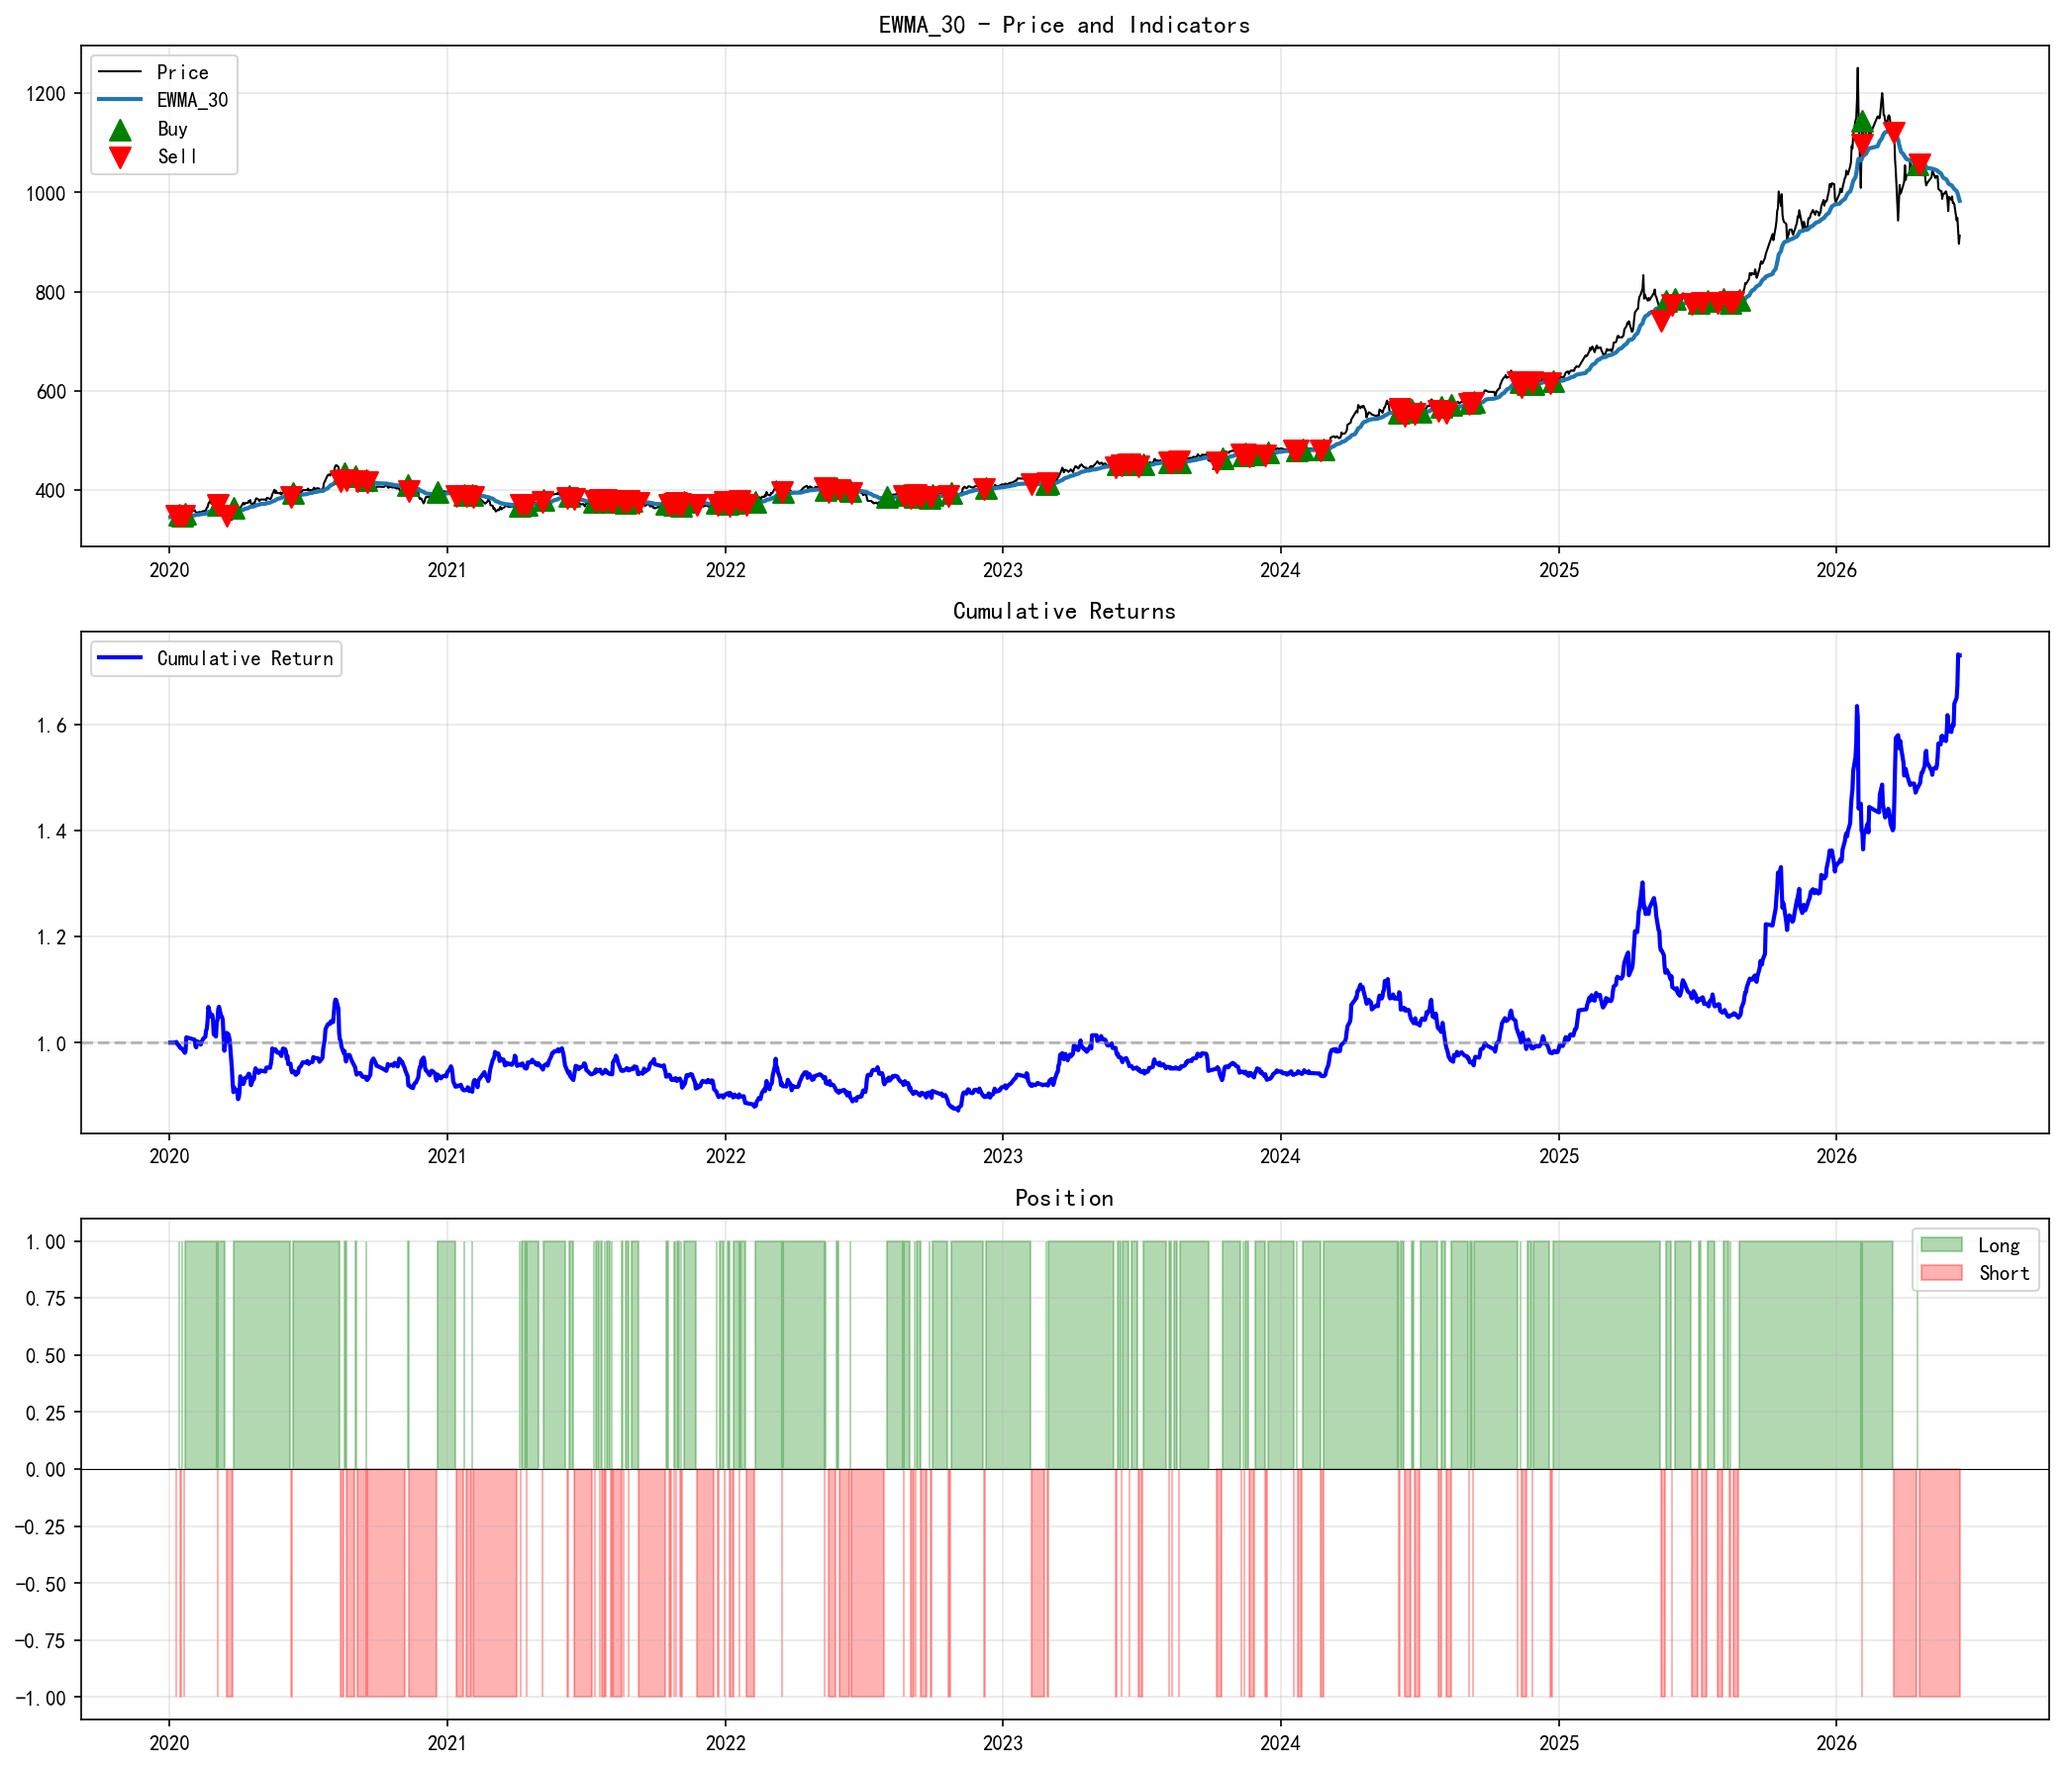
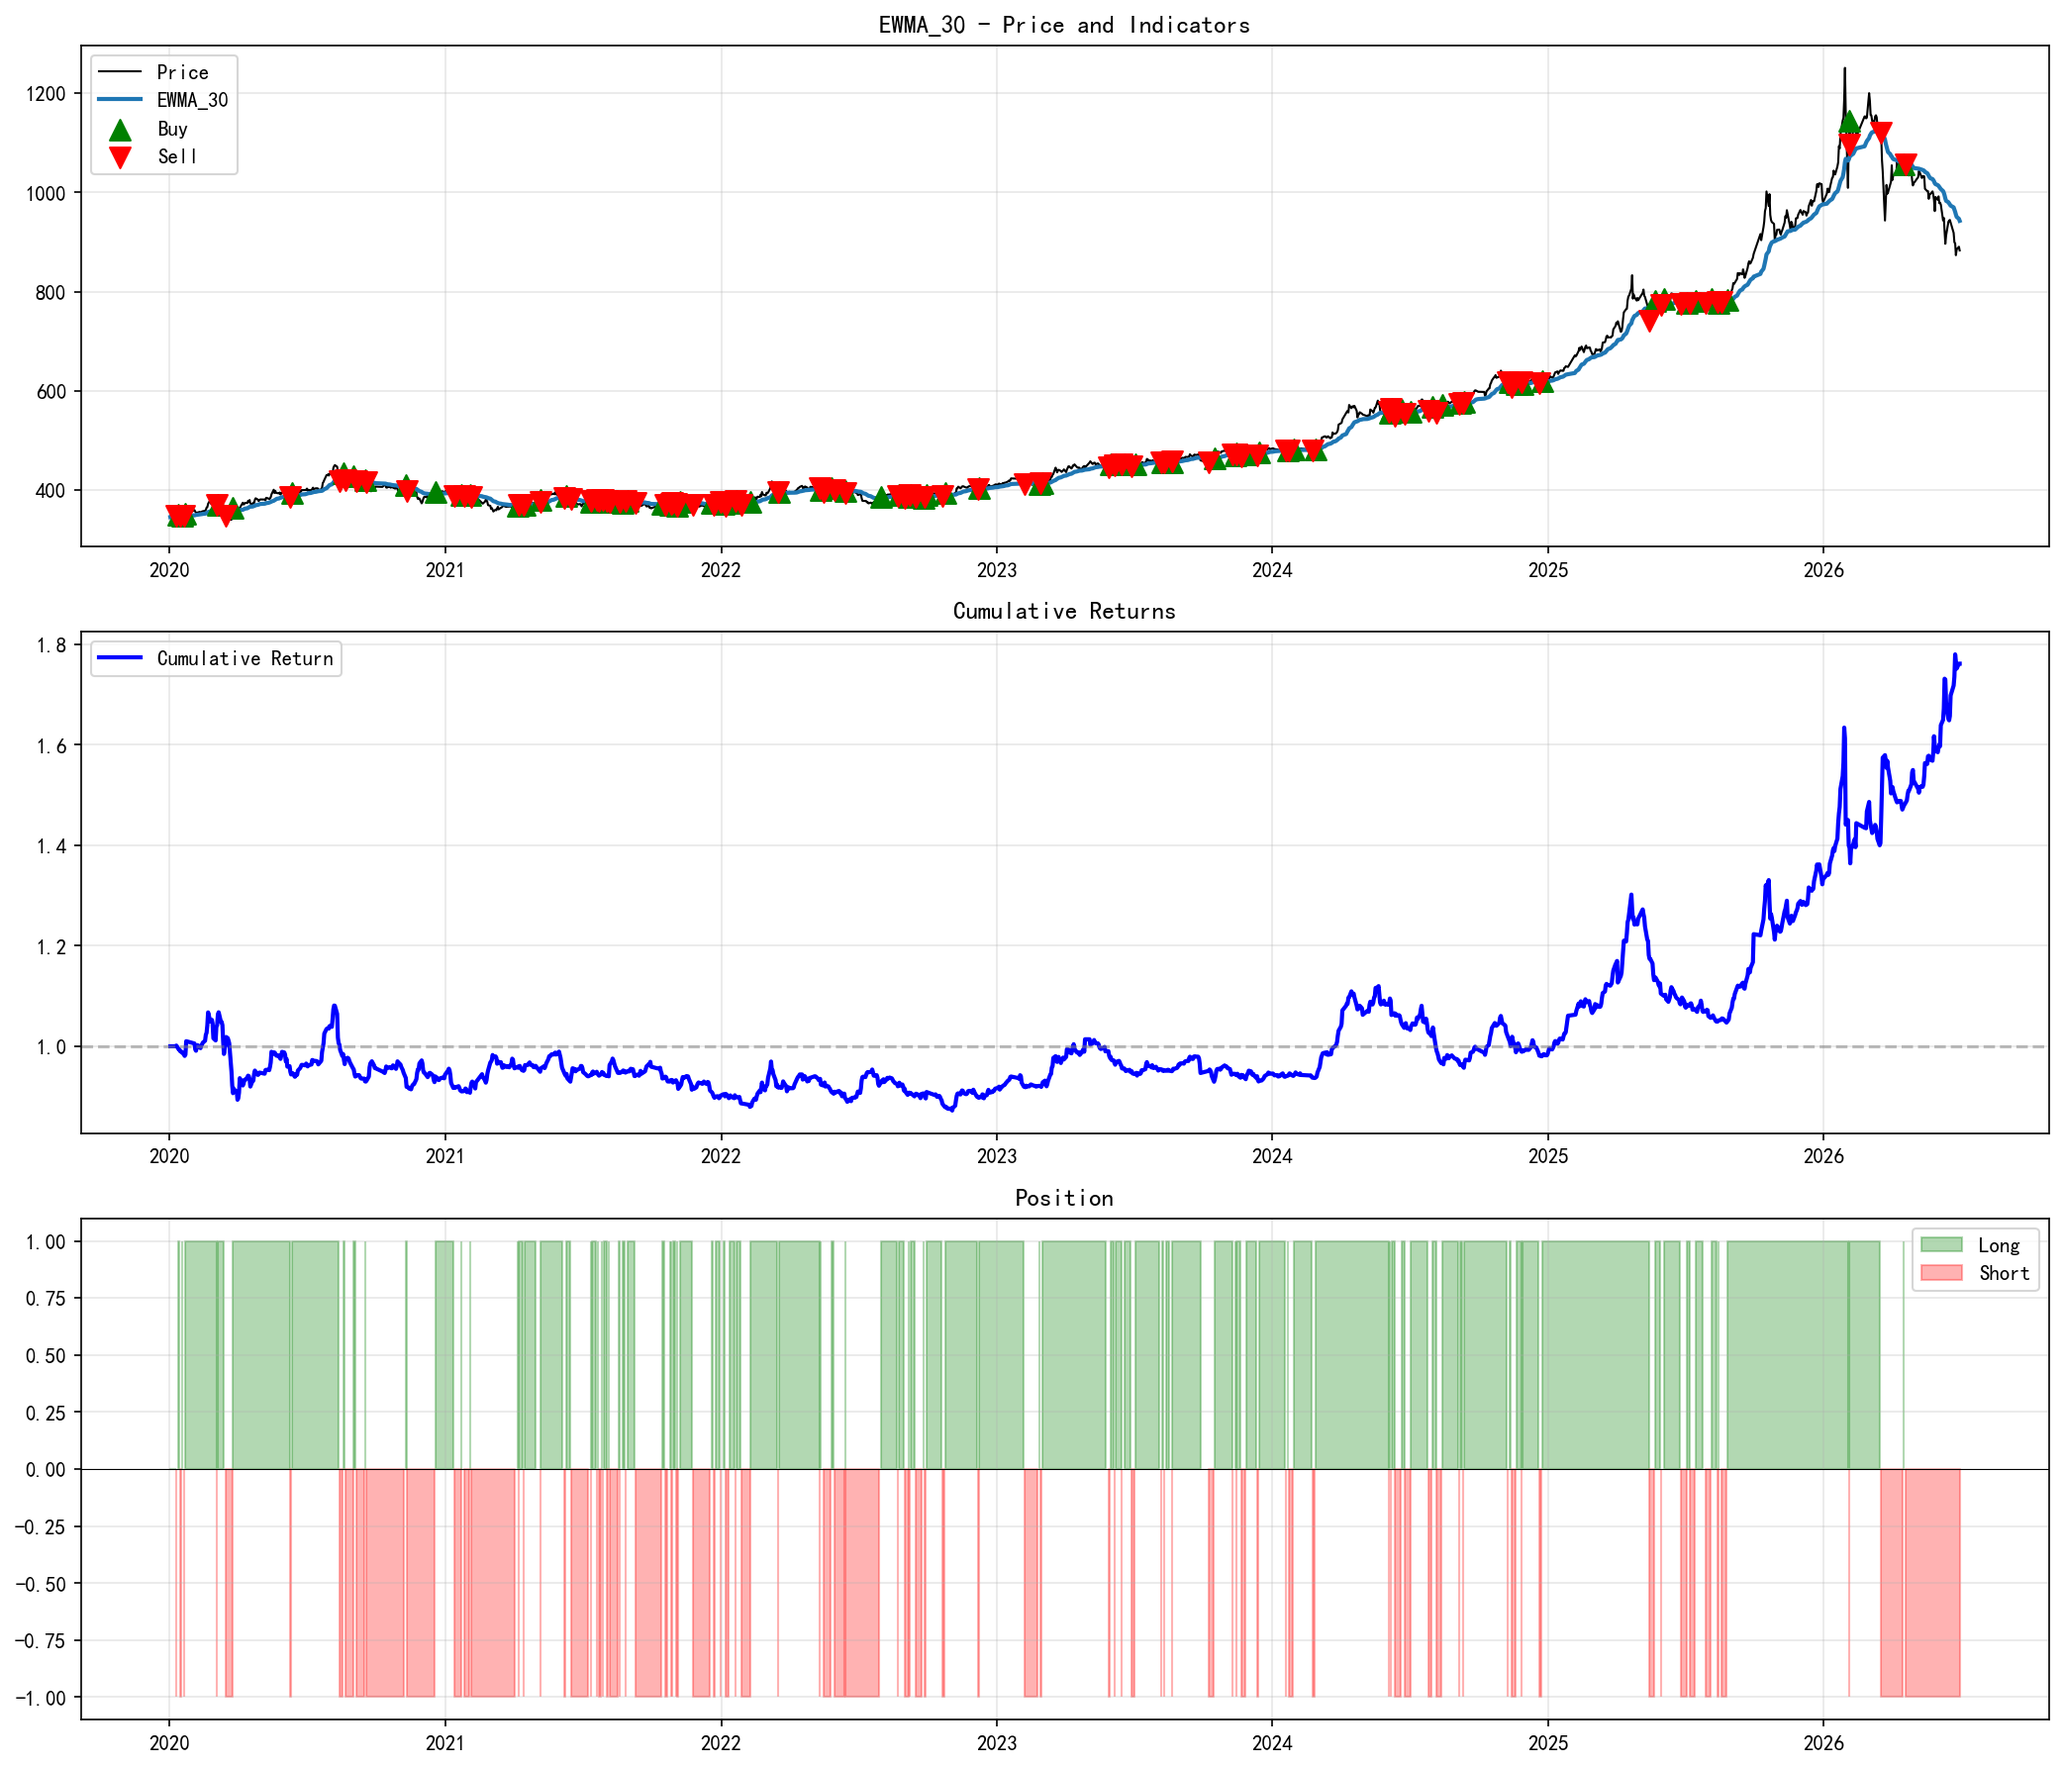
docs: update trading strategy results and charts to 2026-06-30
Top performers: TMA (10/30/90) +182.59%, TMA (5/20/60) +162.87%, EWMA Long-Only +114.54%.

diff --git a/project-quant-trading.html b/project-quant-trading.html
@@ -59,7 +59,7 @@
           <div class="stat-label"><span data-lang="cn">回测周期</span><span data-lang="en">Backtest Period</span></div>
         </div>
         <div class="stat-card">
-          <div class="stat-number">177<span style="font-size:1.2rem">%</span></div>
+          <div class="stat-number">183<span style="font-size:1.2rem">%</span></div>
           <div class="stat-label"><span data-lang="cn">最高累积收益</span><span data-lang="en">Best Cumulative Return</span></div>
         </div>
       </div>
@@ -123,26 +123,26 @@
           <tbody>
             <tr>
               <td><strong>TMA (10/30/90)</strong></td>
-              <td class="highlight">177.46%</td>
-              <td class="highlight">17.16%</td>
+              <td class="highlight">182.59%</td>
+              <td class="highlight">17.35%</td>
               <td class="negative">-25.20%</td>
               <td>10</td>
               <td>50.00%</td>
-              <td>16.62%</td>
+              <td>16.81%</td>
             </tr>
             <tr>
               <td><strong>TMA (5/20/60)</strong></td>
-              <td class="highlight">158.09%</td>
-              <td class="highlight">15.86%</td>
+              <td class="highlight">162.87%</td>
+              <td class="highlight">16.05%</td>
               <td class="negative">-22.07%</td>
               <td>14</td>
               <td>42.86%</td>
-              <td>11.32%</td>
+              <td>11.46%</td>
             </tr>
             <tr>
               <td><strong>EWMA Long-Only</strong></td>
               <td class="highlight">114.54%</td>
-              <td class="highlight">12.58%</td>
+              <td class="highlight">12.48%</td>
               <td class="negative">-17.27%</td>
               <td>89</td>
               <td>46.07%</td>
@@ -150,66 +150,66 @@
             </tr>
             <tr>
               <td><strong>Donchian (50)</strong></td>
-              <td class="highlight">83.24%</td>
-              <td class="highlight">9.86%</td>
+              <td class="highlight">86.63%</td>
+              <td class="highlight">10.09%</td>
               <td class="negative">-29.48%</td>
               <td>12</td>
               <td>50.00%</td>
-              <td>7.79%</td>
+              <td>7.95%</td>
             </tr>
             <tr>
               <td><strong>Donchian (20)</strong></td>
-              <td class="highlight">82.94%</td>
-              <td class="highlight">9.83%</td>
+              <td class="highlight">86.33%</td>
+              <td class="highlight">10.06%</td>
               <td class="negative">-23.54%</td>
               <td>22</td>
               <td>54.55%</td>
-              <td>3.13%</td>
+              <td>3.22%</td>
             </tr>
             <tr>
               <td><strong>EWMA Long-Short</strong></td>
-              <td class="highlight">72.96%</td>
-              <td class="highlight">8.88%</td>
+              <td class="highlight">76.16%</td>
+              <td class="highlight">9.11%</td>
               <td class="negative">-19.57%</td>
               <td>179</td>
               <td>36.87%</td>
-              <td>0.37%</td>
+              <td>0.38%</td>
             </tr>
             <tr>
               <td><strong>MACD</strong></td>
-              <td class="highlight">19.34%</td>
-              <td class="highlight">2.78%</td>
+              <td class="highlight">18.76%</td>
+              <td class="highlight">2.68%</td>
               <td class="negative">-18.48%</td>
-              <td>132</td>
-              <td>32.58%</td>
+              <td>134</td>
+              <td>32.84%</td>
               <td>0.19%</td>
             </tr>
             <tr>
               <td><strong>RSI</strong></td>
-              <td class="negative">-40.22%</td>
-              <td class="negative">-7.68%</td>
+              <td class="negative">-41.47%</td>
+              <td class="negative">-7.92%</td>
               <td class="negative">-60.84%</td>
               <td>10</td>
               <td>50.00%</td>
-              <td>-7.06%</td>
+              <td>-7.25%</td>
             </tr>
             <tr>
               <td><strong>Bollinger (20, 2.0)</strong></td>
-              <td class="negative">-49.48%</td>
-              <td class="negative">-10.06%</td>
+              <td class="negative">-50.53%</td>
+              <td class="negative">-10.27%</td>
               <td class="negative">-59.37%</td>
               <td>27</td>
               <td>51.85%</td>
-              <td>-2.48%</td>
+              <td>-2.55%</td>
             </tr>
             <tr>
               <td><strong>Bollinger (20, 1.5)</strong></td>
-              <td class="negative">-68.04%</td>
-              <td class="negative">-16.23%</td>
-              <td class="negative">-69.36%</td>
+              <td class="negative">-68.71%</td>
+              <td class="negative">-16.39%</td>
+              <td class="negative">-70.27%</td>
               <td>35</td>
               <td>42.86%</td>
-              <td>-3.28%</td>
+              <td>-3.33%</td>
             </tr>
           </tbody>
         </table>
@@ -229,11 +229,11 @@
       <div class="gallery">
         <div class="gallery-item fade-in">
           <img src="assets/plots/TMA_5_20_60.png" alt="TMA 5/20/60" loading="lazy">
-          <div class="gallery-caption">TMA (5/20/60) — <span data-lang="cn">累积收益 158.09%</span><span data-lang="en">Cumulative Return 158.09%</span></div>
+          <div class="gallery-caption">TMA (5/20/60) — <span data-lang="cn">累积收益 162.87%</span><span data-lang="en">Cumulative Return 162.87%</span></div>
         </div>
         <div class="gallery-item fade-in">
           <img src="assets/plots/TMA_10_30_90.png" alt="TMA 10/30/90" loading="lazy">
-          <div class="gallery-caption">TMA (10/30/90) — <span data-lang="cn">累积收益 177.46%</span><span data-lang="en">Cumulative Return 177.46%</span></div>
+          <div class="gallery-caption">TMA (10/30/90) — <span data-lang="cn">累积收益 182.59%</span><span data-lang="en">Cumulative Return 182.59%</span></div>
         </div>
         <div class="gallery-item fade-in">
           <img src="assets/plots/EWMA_LONG_ONLY_30.png" alt="EWMA Long-Only" loading="lazy">
@@ -241,7 +241,7 @@
         </div>
         <div class="gallery-item fade-in">
           <img src="assets/plots/DONCHIAN_20.png" alt="Donchian 20" loading="lazy">
-          <div class="gallery-caption">Donchian (20) — <span data-lang="cn">累积收益 82.94%</span><span data-lang="en">Cumulative Return 82.94%</span></div>
+          <div class="gallery-caption">Donchian (20) — <span data-lang="cn">累积收益 86.33%</span><span data-lang="en">Cumulative Return 86.33%</span></div>
         </div>
         <div class="gallery-item fade-in">
           <img src="assets/plots/DONCHIAN_50.png" alt="Donchian 50" loading="lazy">

diff --git a/project-margin-model.html b/project-margin-model.html
@@ -65,7 +65,7 @@
           <div class="stat-label"><span data-lang="cn">VaR 置信水平</span><span data-lang="en">VaR Levels</span></div>
         </div>
         <div class="stat-card">
-          <div class="stat-number">~7,902</div>
+          <div class="stat-number">~7,924</div>
           <div class="stat-label"><span data-lang="cn">总交易日数据</span><span data-lang="en">Total Trading Days</span></div>
         </div>
         <div class="stat-card">
@@ -136,11 +136,11 @@
       <div class="gallery" style="grid-template-columns: repeat(auto-fit, minmax(400px, 1fr))">
         <div class="gallery-item fade-in">
           <img src="assets/plots/margin_model_Au.png" alt="Au Backtest" loading="lazy">
-          <div class="gallery-caption"><span data-lang="cn">黄金 (Au) — 2008-01-09 ~ 2026-06-13</span><span data-lang="en">Gold (Au) — 2008-01-09 ~ 2026-06-13</span></div>
+          <div class="gallery-caption"><span data-lang="cn">黄金 (Au) — 2008-01-09 ~ 2026-07-01</span><span data-lang="en">Gold (Au) — 2008-01-09 ~ 2026-07-01</span></div>
         </div>
         <div class="gallery-item fade-in">
           <img src="assets/plots/margin_model_Ag.png" alt="Ag Backtest" loading="lazy">
-          <div class="gallery-caption"><span data-lang="cn">白银 (Ag) — 2012-05-10 ~ 2026-06-13</span><span data-lang="en">Silver (Ag) — 2012-05-10 ~ 2026-06-13</span></div>
+          <div class="gallery-caption"><span data-lang="cn">白银 (Ag) — 2012-05-10 ~ 2026-07-01</span><span data-lang="en">Silver (Ag) — 2012-05-10 ~ 2026-07-01</span></div>
         </div>
       </div>
     </div>
@@ -167,7 +167,7 @@
               <td><strong>Au</strong></td>
               <td><span data-lang="cn">方法一（含阈值）</span><span data-lang="en">Method 1 (w/ threshold)</span></td>
               <td>87</td>
-              <td>4,477</td>
+              <td>4,488</td>
               <td>1.94%</td>
               <td>8</td>
             </tr>
@@ -175,7 +175,7 @@
               <td><strong>Au</strong></td>
               <td><span data-lang="cn">方法二（η=1.8）</span><span data-lang="en">Method 2 (η=1.8)</span></td>
               <td>39</td>
-              <td>4,477</td>
+              <td>4,488</td>
               <td>0.87%</td>
               <td>5</td>
             </tr>
@@ -183,15 +183,15 @@
               <td><strong>Ag</strong></td>
               <td><span data-lang="cn">方法一（含阈值）</span><span data-lang="en">Method 1 (w/ threshold)</span></td>
               <td>57</td>
-              <td>3,425</td>
+              <td>3,436</td>
               <td>1.66%</td>
-              <td>11</td>
+              <td>10</td>
             </tr>
             <tr>
               <td><strong>Ag</strong></td>
               <td><span data-lang="cn">方法二（η=1.8）</span><span data-lang="en">Method 2 (η=1.8)</span></td>
               <td>27</td>
-              <td>3,425</td>
+              <td>3,436</td>
               <td>0.79%</td>
               <td>1</td>
             </tr>
